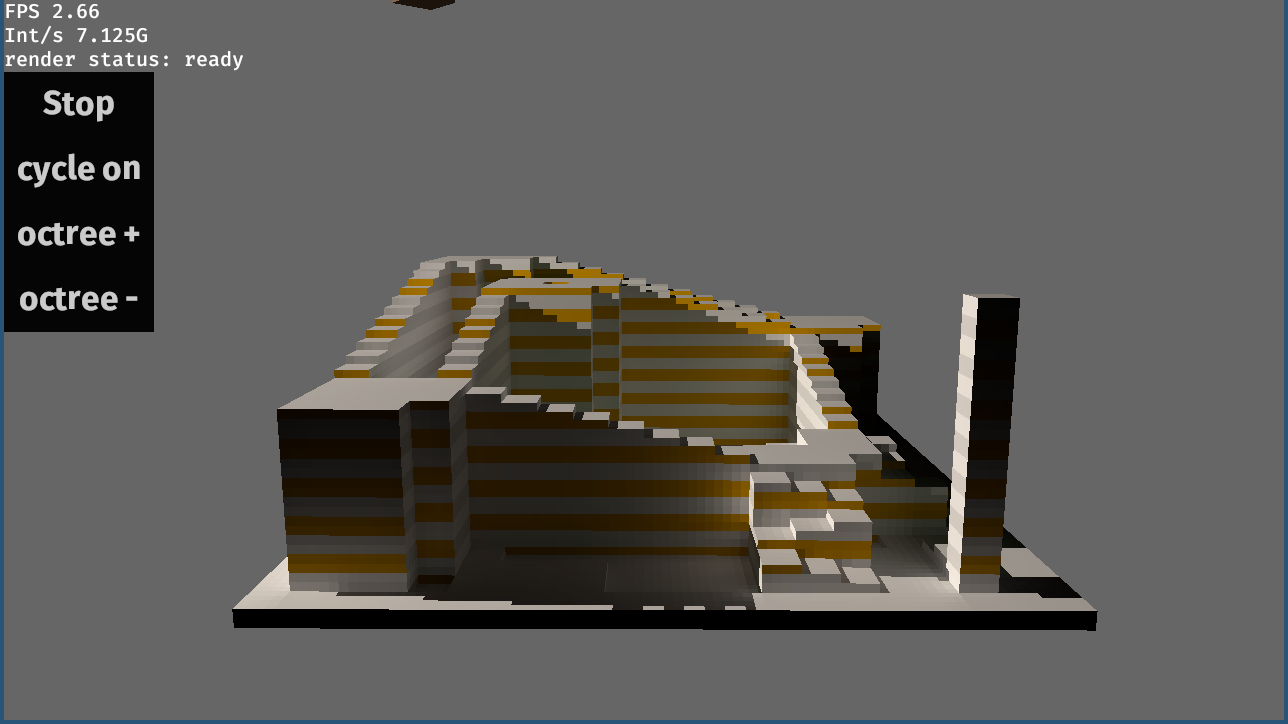
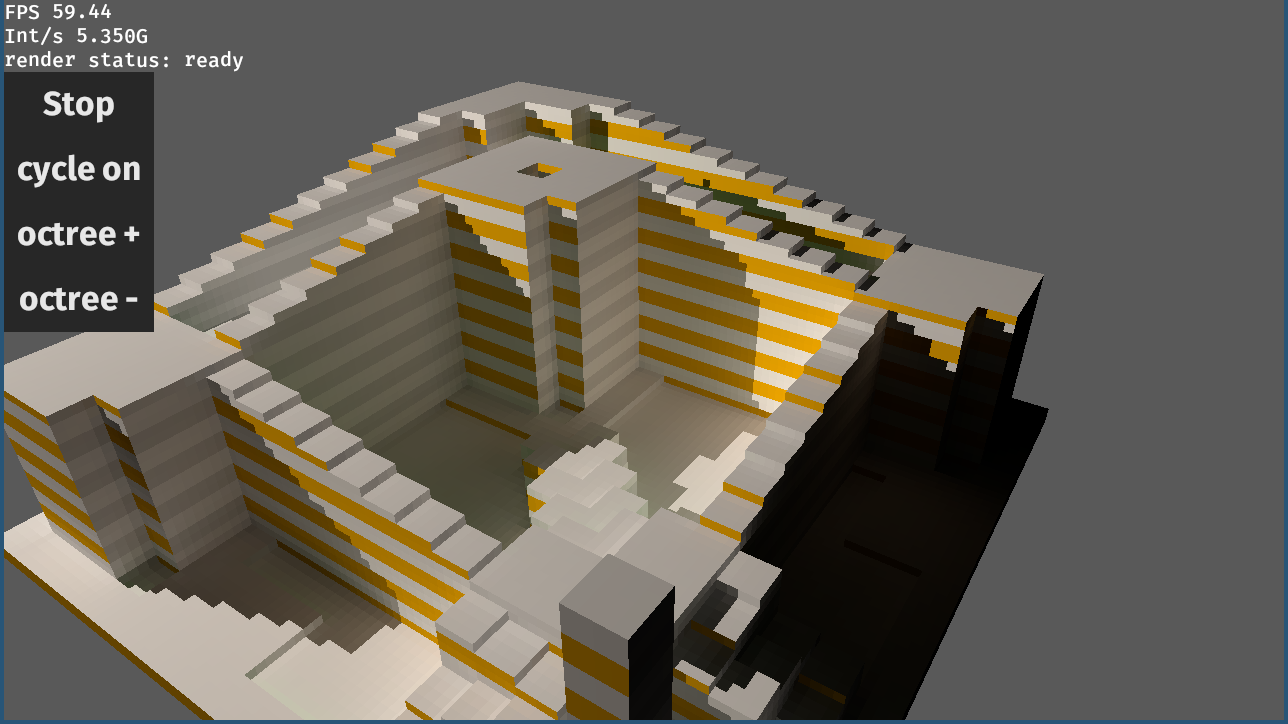
bevy 0.3 port done

diff --git a/src/quad_render.rs b/src/quad_render.rs
@@ -13,7 +13,6 @@ use bevy::{
     },
     type_registry::TypeUuid,
 };
-use rand::{thread_rng, Rng};
 
 // FIXME: this is only defined here because apply_frontbuf directly needs to modify it. Implementation should be moved from main.rs
 #[derive(Default)]
@@ -77,7 +76,7 @@ fn setup(
     mut materials: ResMut<Assets<MyMaterial>>,
     mut render_graph: ResMut<RenderGraph>,
     plane_scene: Res<crystal::PlaneScene>,
-    mut query: Query<(Entity, &rad::Plane)>,
+    query: Query<(Entity, &rad::Plane)>,
 ) {
     // Create a new shader pipeline
     let pipeline_handle = pipelines.add(PipelineDescriptor::default_config(ShaderStages {
@@ -318,7 +317,7 @@ fn apply_frontbuf(
     mut render_status: ResMut<crate::hud::RenderStatus>,
 
     mut rotator_system_state: ResMut<RotatorSystemState>,
-    mut query: Query<(&rad::Plane, &Plane)>,
+    query: Query<(&rad::Plane, &Plane)>,
 ) {
     let mut update = false;
 
@@ -343,8 +342,8 @@ fn apply_frontbuf(
     if !update {
         return;
     }
-    let mut mesh_opt = None;
     let mut mesh_handle = Handle::<Mesh>::default();
+    let mut new_vs = Vec::new();
     for (rad_plane, plane) in &mut query.iter() {
         // read rgb value from rad frontbuffer
         let buf = front_buf.read();
@@ -352,29 +351,41 @@ fn apply_frontbuf(
         let g = buf.g[rad_plane.buf_index];
         let b = buf.b[rad_plane.buf_index];
 
-        // consecutive planes will mostly be located in the same mesh
+        // this branch should be hit only once per mesh because consecutive planes
+        // will normally be located in the same mesh
         if mesh_handle != plane.mesh_handle {
+            // apply updated new_vs to current mesh (if Some)
+            if let Some(mesh) = meshes.get_mut(&mesh_handle) {
+                mesh.set_attribute(
+                    bevy::render::mesh::Mesh::ATTRIBUTE_NORMAL,
+                    VertexAttributeValues::Float3(new_vs),
+                );
+            }
+            // get next mesh and init new_vs
             mesh_handle = plane.mesh_handle.clone();
-            mesh_opt = meshes.get_mut(&plane.mesh_handle);
-        }
-
-        if let Some(ref mut mesh) = mesh_opt {
-            match mesh.attribute(bevy::render::mesh::Mesh::ATTRIBUTE_NORMAL) {
-                Some(VertexAttributeValues::Float3(vs)) => {
-                    let mut vs2 = vs.clone();
-                    for i in plane.indices.iter() {
-                        vs2[*i as usize][0] = r;
-                        vs2[*i as usize][1] = g;
-                        vs2[*i as usize][2] = b;
-                    }
-                    mesh.set_attribute(
-                        bevy::render::mesh::Mesh::ATTRIBUTE_NORMAL,
-                        bevy::render::mesh::VertexAttributeValues::Float3(vs2),
-                    );
-                }
+            new_vs = match meshes
+                .get(&mesh_handle)
+                .expect("missing mesh referenced by plane")
+                .attribute(bevy::render::mesh::Mesh::ATTRIBUTE_NORMAL)
+            {
+                // allocate new_vs using size of existing attribute-array (OPT-REMARK: assuming this is more efficient than cloning it... in-place update would be nice)
+                Some(VertexAttributeValues::Float3(vs)) => vec![[0f32, 0f32, 0f32]; vs.len()],
                 _ => panic!("expected Vertex_Normal to be Float3"),
             };
         }
+
+        for i in plane.indices.iter() {
+            new_vs[*i as usize][0] = r;
+            new_vs[*i as usize][1] = g;
+            new_vs[*i as usize][2] = b;
+        }
+    }
+    // apply final updated new_vs to last mesh_opt (if Some)
+    if let Some(mesh) = meshes.get_mut(&mesh_handle) {
+        mesh.set_attribute(
+            bevy::render::mesh::Mesh::ATTRIBUTE_NORMAL,
+            VertexAttributeValues::Float3(new_vs),
+        );
     }
 }
 

diff --git a/src/octree_render.rs b/src/octree_render.rs
@@ -64,11 +64,11 @@ fn vis_update_system(
                 let (pos, size) = octant.get_geometry(height);
 
                 let cube_size = size.0 as f32 * 0.25 * 0.5;
-                // let mesh = *vis_info
-                //     .cubes
-                //     .entry(size.0)
-                //     .or_insert_with(|| meshes.add(Mesh::from(shape::Cube { size: cube_size })))
-                //     .clone();
+                let mesh = vis_info
+                    .cubes
+                    .entry(size.0)
+                    .or_insert_with(|| meshes.add(Mesh::from(shape::Cube { size: cube_size })))
+                    .clone();
 
                 let color = crate::crystal::util::hsv_to_rgb(
                     thread_rng().gen_range(0f32, 360f32),
@@ -80,21 +80,21 @@ fn vis_update_system(
                     ..Default::default()
                 });
 
-                // commands
-                //     .spawn(PbrComponents {
-                //         mesh,
-                //         material: cube_material_handle,
-                //         transform: Transform::from_translation(
-                //             pos.into_vec3() * 0.25 + Vec3::splat(cube_size - 0.125),
-                //         ),
-                //         draw: Draw {
-                //             is_transparent: false,
-                //             is_visible: level == octant.scale,
-                //             ..Default::default()
-                //         },
-                //         ..Default::default()
-                //     })
-                //     .with(id);
+                commands
+                    .spawn(PbrComponents {
+                        mesh,
+                        material: cube_material_handle,
+                        transform: Transform::from_translation(
+                            pos.into_vec3() * 0.25 + Vec3::splat(cube_size - 0.125),
+                        ),
+                        draw: Draw {
+                            is_transparent: false,
+                            is_visible: level == octant.scale,
+                            ..Default::default()
+                        },
+                        ..Default::default()
+                    })
+                    .with(id);
 
                 num += 1;
             }

diff --git a/examples/octree_vis.rs b/examples/octree_vis.rs
@@ -47,11 +47,16 @@ fn setup(
         //     continue;
         // }
         let (pos, size) = octant.get_geometry(height);
-        let mesh = *cubes.entry(size.0).or_insert_with(|| {
-            meshes.add(Mesh::from(shape::Cube {
-                size: size.0 as f32 * 0.125 * 0.5,
-            }))
-        });
+        let mesh = cubes
+            .entry(size.0)
+            .or_insert_with(|| {
+                meshes
+                    .add(Mesh::from(shape::Cube {
+                        size: size.0 as f32 * 0.125 * 0.5,
+                    }))
+                    .clone()
+            })
+            .clone();
 
         let color = crystal_planes::crystal::util::hsv_to_rgb(
             thread_rng().gen_range(0f32, 360f32),
@@ -140,10 +145,8 @@ fn camera_order_color_system(
 ) {
     for (_camera, visible_entities) in &mut camera_query.iter() {
         for visible_entity in visible_entities.iter() {
-            if let Ok(material_handle) =
-                material_query.get::<Handle<StandardMaterial>>(visible_entity.entity)
-            {
-                let material = materials.get_mut(&material_handle).unwrap();
+            if let Ok(material_handle) = material_query.get(visible_entity.entity) {
+                let material = materials.get_mut(material_handle).unwrap();
                 let value = 1.0 - (visible_entity.order.0 - 10.0) / 7.0;
                 material.albedo = Color::rgb(value, value, value);
             }

diff --git a/src/hud/button.rs b/src/hud/button.rs
@@ -47,7 +47,7 @@ impl ToggleButton {
 }
 
 fn toggle_button_system(world: &mut World, res: &mut Resources) {
-    let mut query = world.query_mut::<(
+    let query = world.query_mut::<(
         &mut ToggleButton,
         &Children,
         Mutated<Interaction>,
@@ -77,7 +77,7 @@ fn toggle_button_system(world: &mut World, res: &mut Resources) {
 
 fn toggle_button_text_system(world: &mut World, res: &mut Resources) {
     let mut set_texts = Vec::new();
-    let mut query = world.query::<(&ToggleButton, &Children)>();
+    let query = world.query::<(&ToggleButton, &Children)>();
 
     for (toggle_button, children) in query {
         let get_label = &*toggle_button.get_label;

diff --git a/examples/systems.rs b/examples/systems.rs
@@ -1,4 +1,4 @@
-use bevy::{app::ScheduleRunnerPlugin, prelude::*};
+use bevy::{app::ScheduleRunnerPlugin, app::ScheduleRunnerSettings, prelude::*};
 use std::time::Duration;
 
 fn main() {
@@ -11,9 +11,10 @@ fn main() {
     //     .run();
 
     App::build()
-        .add_plugin(ScheduleRunnerPlugin::run_loop(Duration::from_secs_f64(
+        .add_resource(ScheduleRunnerSettings::run_loop(Duration::from_secs_f64(
             1.0 / 60.0,
         )))
+        .add_plugin(ScheduleRunnerPlugin::default())
         .add_system(system1.system())
         .add_system(system2.system())
         .init_resource::<Res1>()

diff --git a/src/octree/octree.rs b/src/octree/octree.rs
@@ -127,6 +127,7 @@ pub fn child_offset(i: usize) -> Vec3i {
     }
 }
 
+#[allow(dead_code)]
 pub fn generate_points(octants: &Octants, root: OctantId, offset: &Point3i) -> Vec<Point3i> {
     let octant = octants.get(root);
     let mut out = Vec::new();
